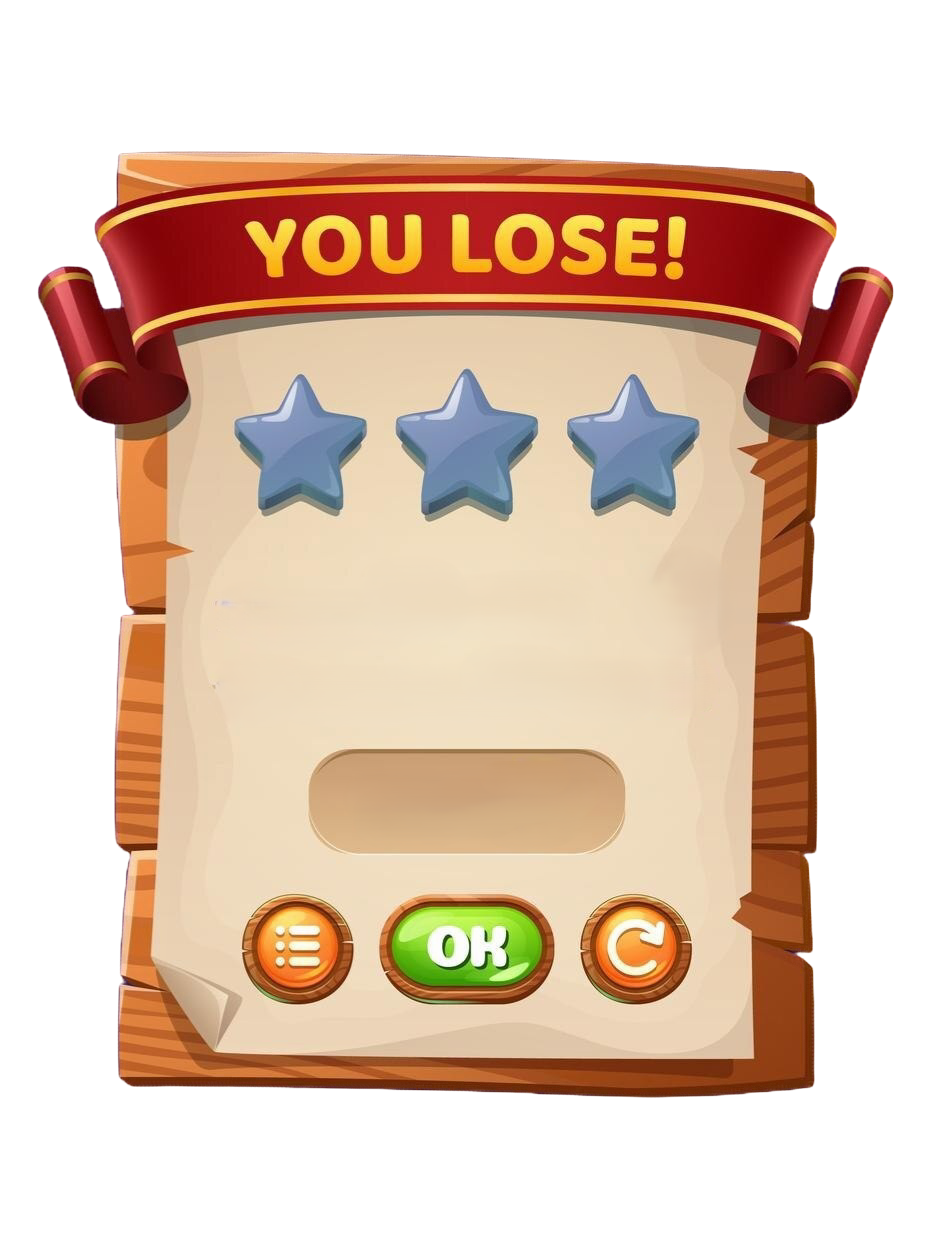
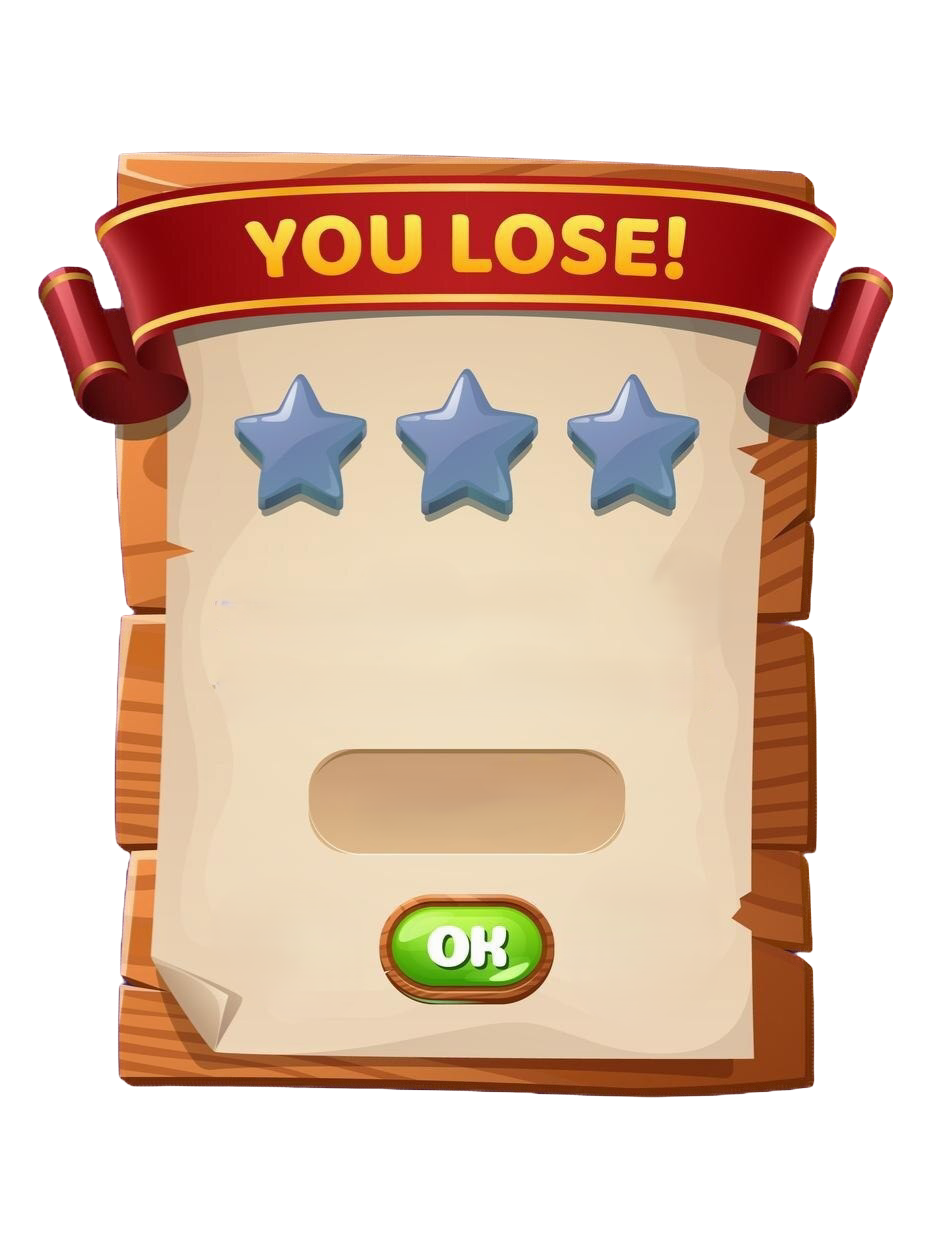
result win lose bg added completely, some controller code added

Changed region(s): [[0.2476, 0.7176, 0.4023, 0.8112], [0.619, 0.7176, 0.7428, 0.8112]]

diff --git a/src/main/resources/game/rise_of_valor/css/styles.css b/src/main/resources/game/rise_of_valor/css/styles.css
@@ -256,7 +256,7 @@
     -fx-background-position: center;
 }
 
-/*winBg style*/
+/*result style*/
 /*.win-bg {*/
 /*    -fx-background-image: url("../assets/images/winningBG.png");*/
 /*    -fx-background-size: cover;*/
@@ -276,28 +276,21 @@
     -fx-background-position: center;
 }
 
-/* Victory Title */
-/* Labels */
-.win-label {
-    -fx-font-size: 18px;
-    -fx-text-fill: white;
+/*.lose-card-bg {*/
+/*    -fx-background-image: url("../assets/images/lose.png");*/
+/*    -fx-background-size: cover;*/
+/*    -fx-background-repeat: no-repeat;*/
+/*    -fx-background-position: center;*/
+/*}*/
+
+.star-bg {
+    -fx-background-image: url("../assets/images/starBg.png");
+    -fx-background-size: cover;
+    -fx-background-repeat: no-repeat;
+    -fx-background-position: center;
 }
 
-/* Continue Button */
-.continue-btn {
-    -fx-background-color: #FFD700;
-    -fx-text-fill: black;
-    -fx-font-size: 18px;
-    -fx-padding: 8px 16px;
-    -fx-border-radius: 10px;
-    -fx-background-radius: 10px;
-}
-
-.continue-btn:hover {
-    -fx-background-color: #FFA500;
-}
-
-
+/*settings styles*/
 .settings-bg{
     -fx-background-color: linear-gradient(to right, rgba(20,0,36,1), rgb(63, 3, 97));
 }

diff --git a/src/main/java/game/rise_of_valor/controllers/resultController.java b/src/main/java/game/rise_of_valor/controllers/resultController.java
@@ -1,0 +1,56 @@
+package game.rise_of_valor.controllers;
+
+import javafx.fxml.FXML;
+import javafx.scene.control.Button;
+import javafx.scene.control.Label;
+import javafx.scene.image.Image;
+import javafx.scene.image.ImageView;
+import javafx.stage.Stage;
+
+public class resultController {
+
+    @FXML
+    private Label killLabel;
+
+    @FXML
+    private Label xpLabel;
+
+    @FXML
+    private Label coinsLabel;
+
+//    @FXML
+//    private ImageView starsImage;
+
+    @FXML
+    private Button continueBtn;
+
+    private int killedEnimies;
+    private int coinsCollected;
+    private int xpGained;
+    private int starsEarned;
+
+    public void setWinData(int coins, int kill, int xp, int stars) {
+        coinsCollected = coins;
+        killedEnimies = kill;
+        xpGained = xp;
+        starsEarned = stars;
+
+        killLabel.setText("" + killedEnimies);
+        xpLabel.setText("" + xpGained);
+        coinsLabel.setText("" + coinsCollected);
+
+        // Load star image based on stars earned
+//        String starImagePath = "/images/stars_" + starsEarned + ".png"; // Example: stars_3.png
+//        starsImage.setImage(new Image(getClass().getResourceAsStream(starImagePath)));
+    }
+
+    @FXML
+    public void initialize() {
+       // continueButton.setOnAction(e -> closeWindow());
+    }
+
+    private void closeWindow() {
+       // Stage stage = (Stage) continueButton.getScene().getWindow();
+        //stage.close();
+    }
+}

diff --git a/src/main/java/game/rise_of_valor/Main.java b/src/main/java/game/rise_of_valor/Main.java
@@ -25,7 +25,7 @@ public class Main extends Application {
 //        FXMLLoader fxmlLoader = new FXMLLoader(Main.class.getResource("fxml/game-play.fxml"));
 //        FXMLLoader fxmlLoader = new FXMLLoader(Main.class.getResource("fxml/shop-view.fxml"));
 //        FXMLLoader fxmlLoader = new FXMLLoader(Main.class.getResource("fxml/winBG-view.fxml"));
-        FXMLLoader fxmlLoader = new FXMLLoader(Main.class.getResource("fxml/win-screen-view.fxml"));
+        FXMLLoader fxmlLoader = new FXMLLoader(Main.class.getResource("fxml/result-view.fxml"));
 //        FXMLLoader fxmlLoader = new FXMLLoader(Main.class.getResource("fxml/settings-view.fxml"));
 //        FXMLLoader fxmlLoader = new FXMLLoader(Main.class.getResource("fxml/waiting-view.fxml"));
 
